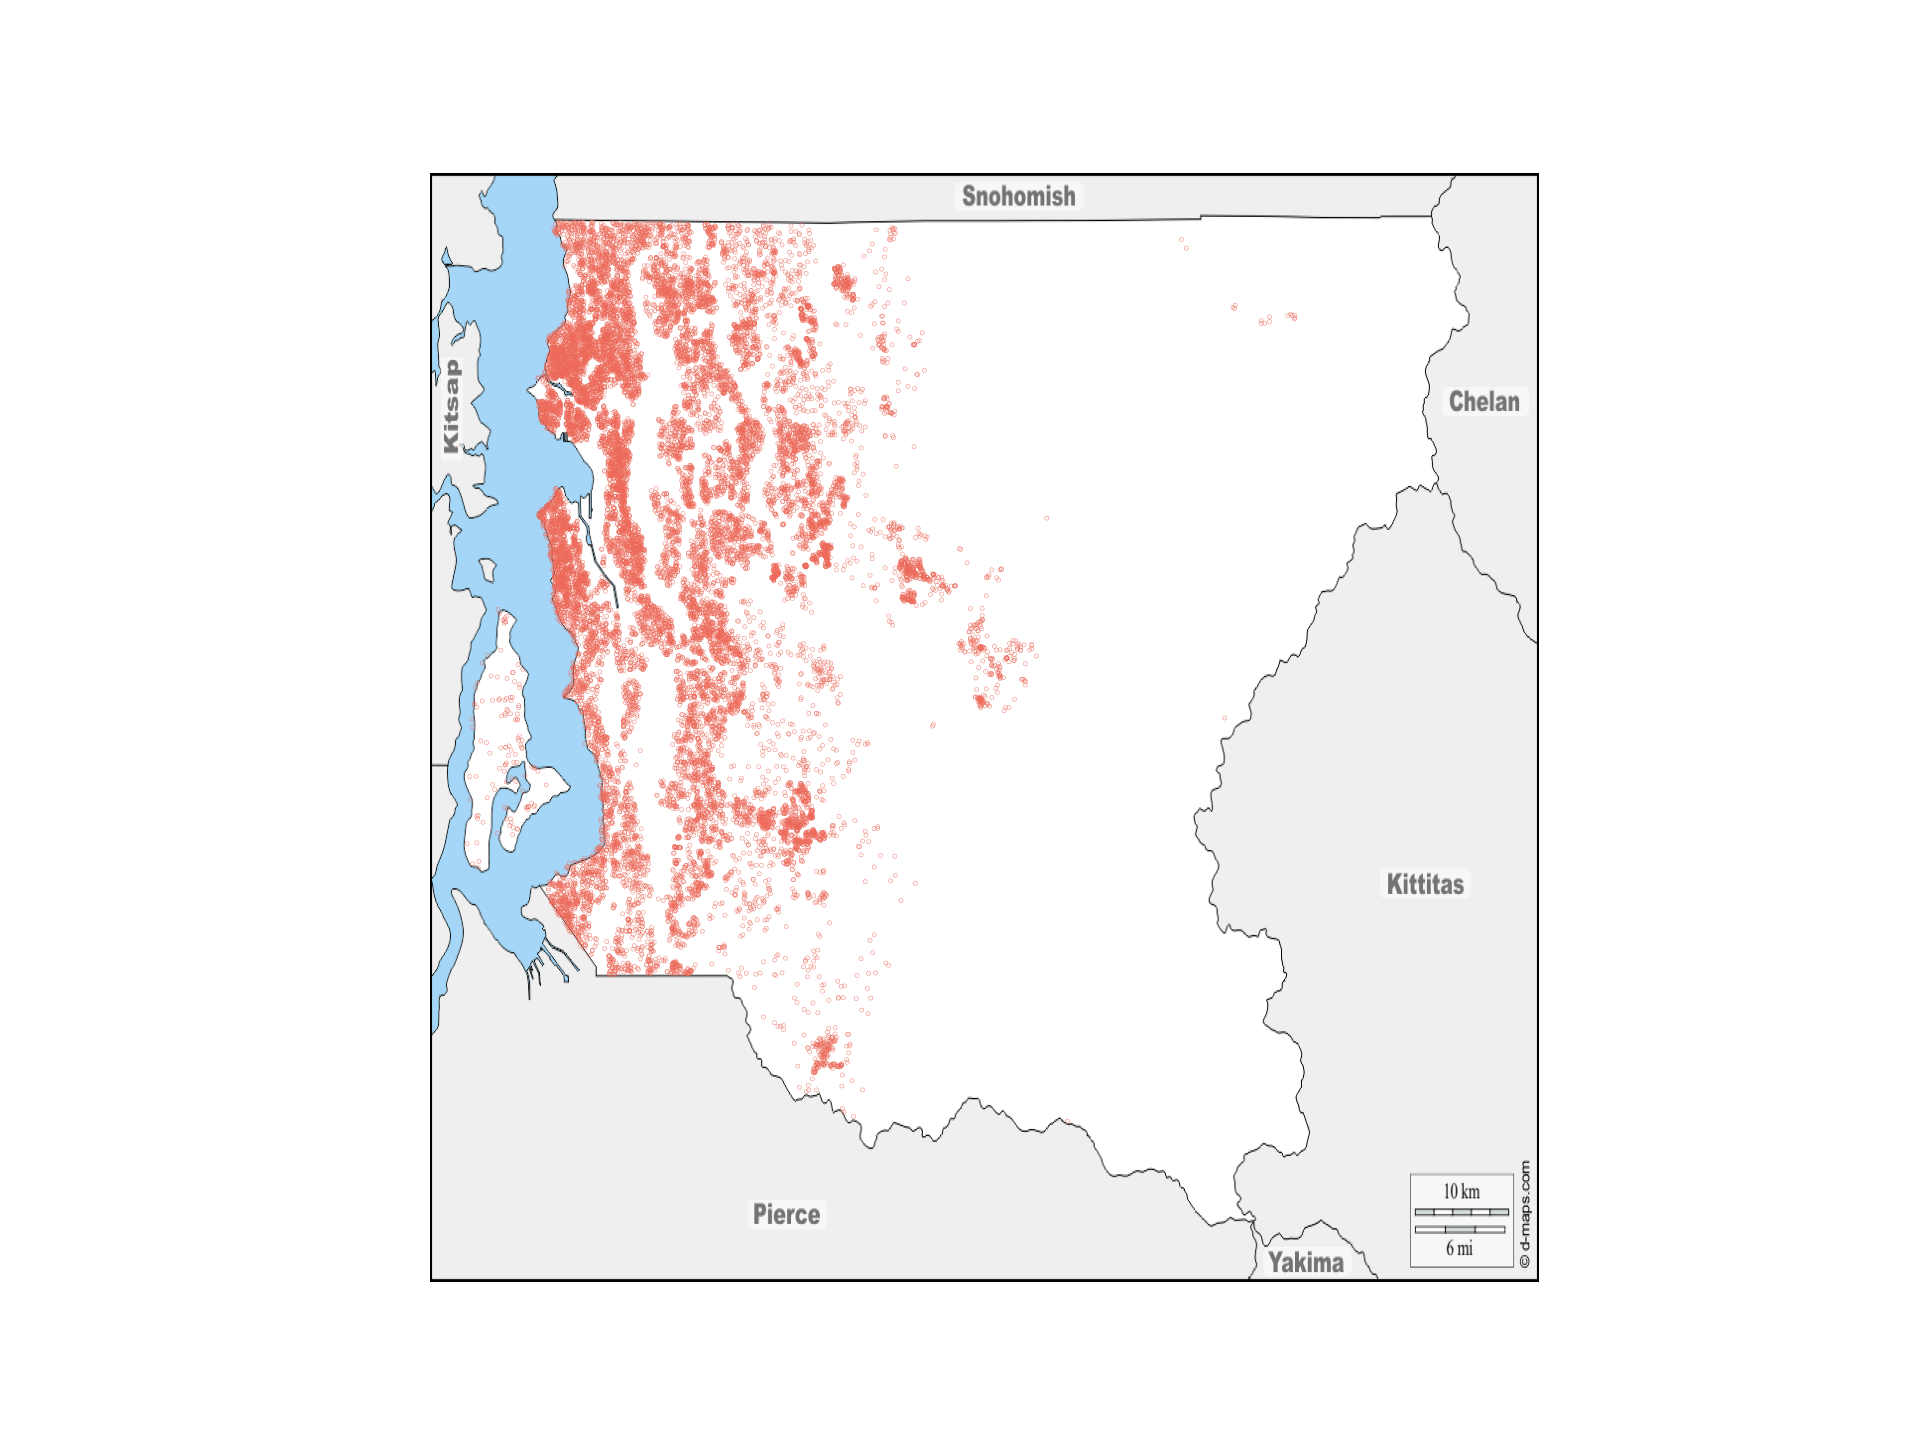
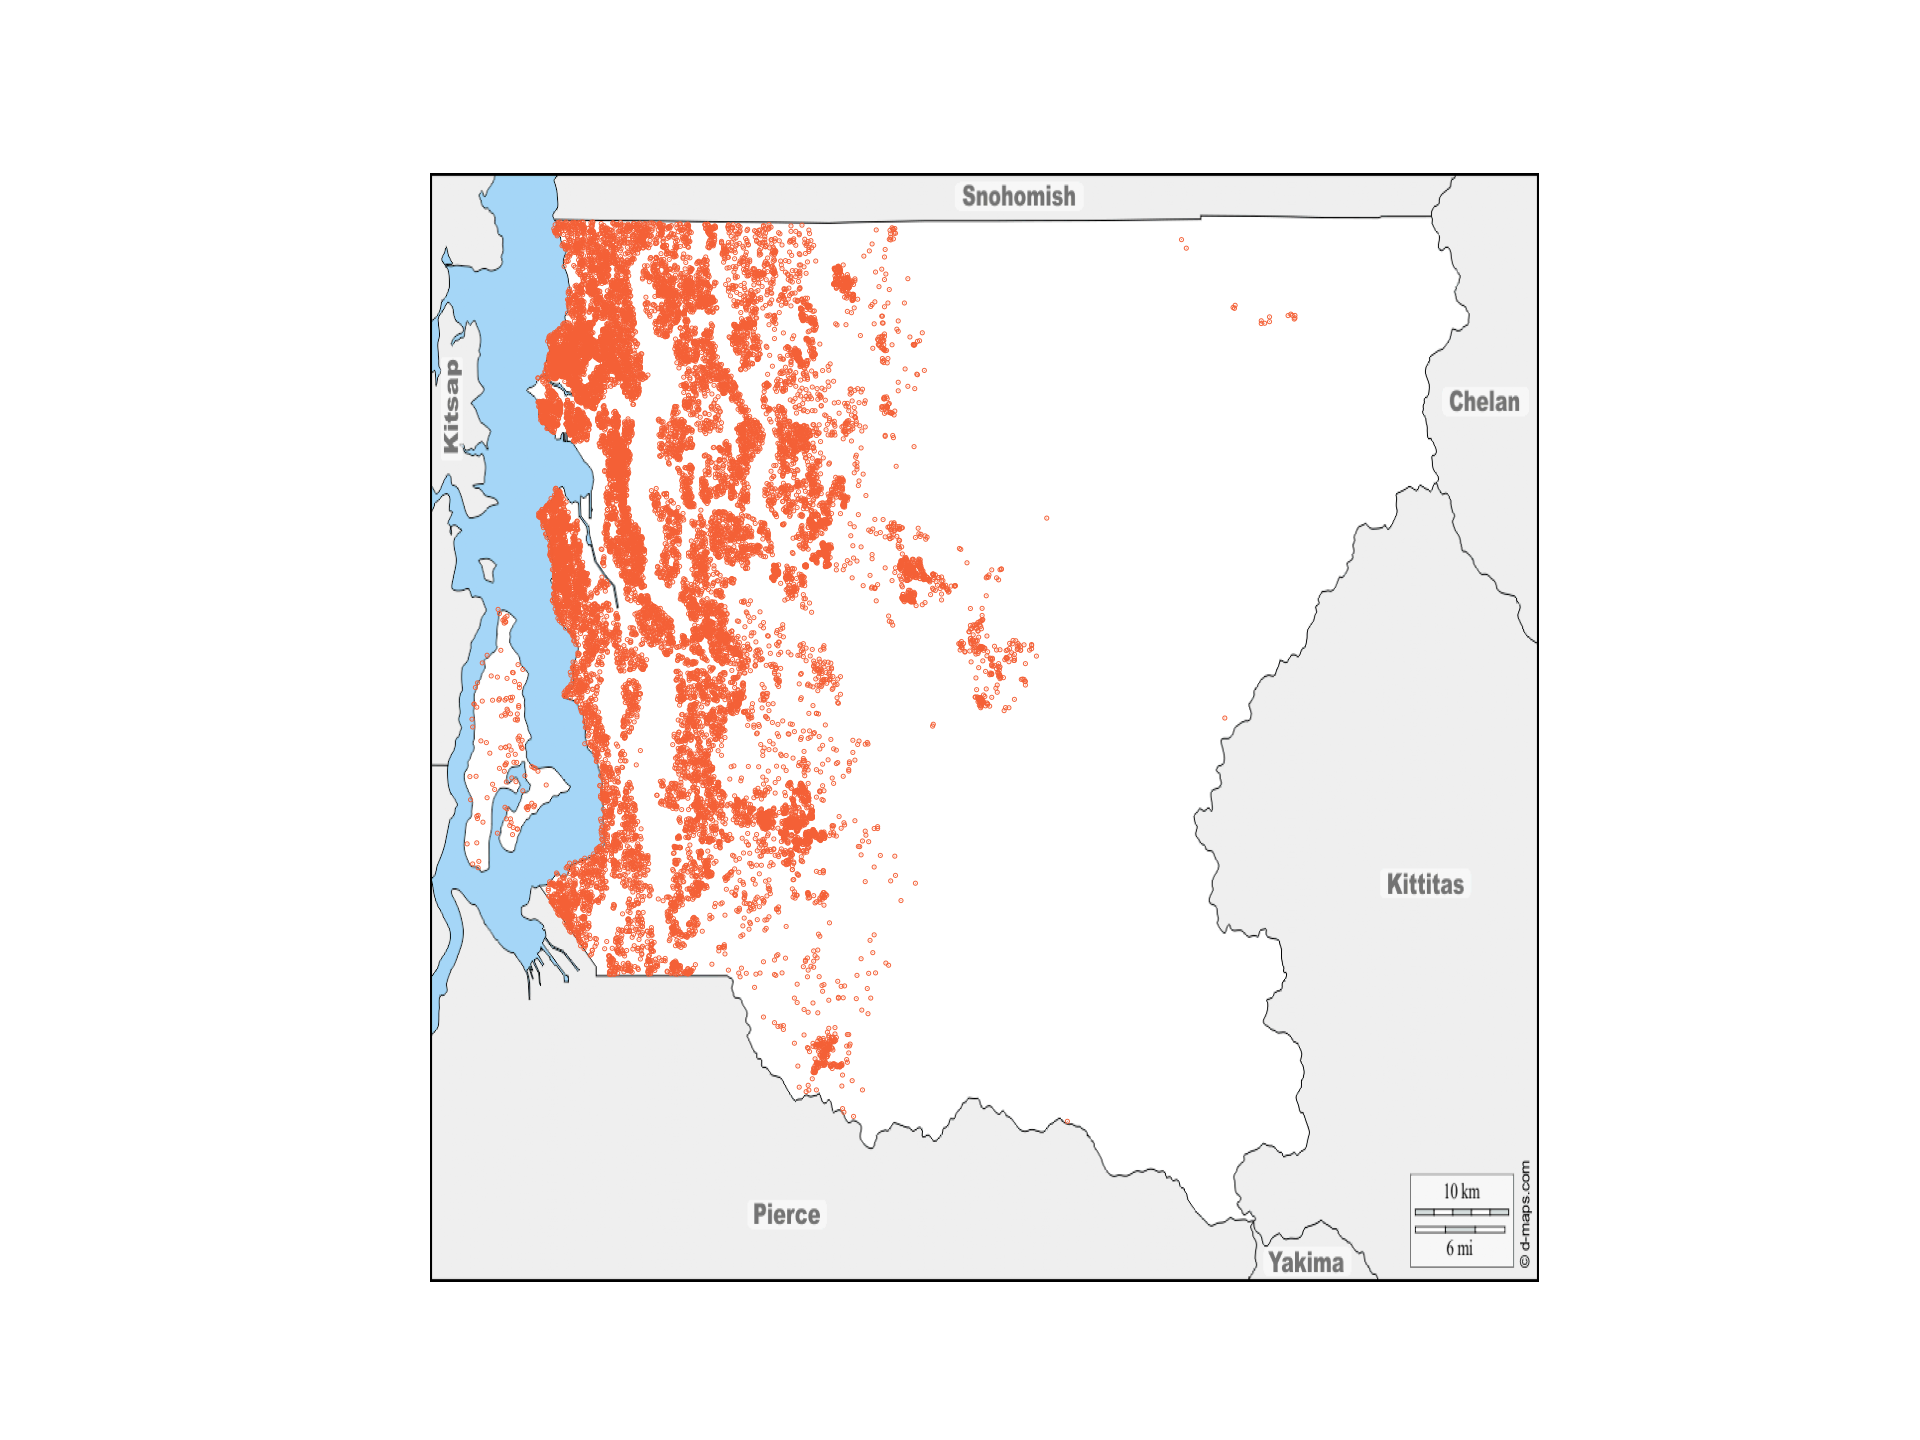
Added plots for kmeans clustering from sklearn

Changed region(s): [[0.25, 0.1562, 0.5, 0.75], [0.5, 0.4375, 0.5312, 0.5]]

diff --git a/price_predict.py b/price_predict.py
@@ -4,6 +4,7 @@ import matplotlib.pyplot as plt
 import sklearn
 import statistics
 from sklearn import preprocessing
+from sklearn.cluster import KMeans
 from sklearn.ensemble import RandomForestRegressor
 from sklearn.neighbors import KNeighborsRegressor
 from sklearn.metrics import mean_absolute_error, median_absolute_error
@@ -155,7 +156,7 @@ def plot_feature_correlation(X, Y, save_dir):
         plt.savefig('%s/%s_correlation.png' % (save_dir, column), dpi=300)
         plt.clf()
 
-def plot_latlong_clusters(X, Y, cluster, save_dir, colors=["#ED6A5A", "#F4F1BB", "#9BC1BC", "#5CA5A9", "#E6EBE0", "#93B7BE", "#F1FFFA", "#D5C7BC", "#785964", "#454545"], background_dir="./map.png", save_name="latlong_clustering", marker_size=0.05):
+def plot_latlong_clusters(X, Y, cluster, save_dir, colors=["#F46036", "#2E294E", "#1B998B", "#E71D36", "#C5D86D", "#70D6FF", "#FF70A6", "#FF9770", "#FFD670", "#E9FF70"], background_dir="./map.png", save_name="latlong_clustering", marker_size=0.05):
     count = min(len(X), min(len(Y), len(cluster)))
     if (count == 0 or len(colors) == 0):
         print("lat-long cluster plot called with invalid arugments")
@@ -264,8 +265,17 @@ if __name__ == '__main__':
     preprocess_data('./data/kc_house_data.csv', drop_features=['date', 'id'], 
     save_dir='./data', test_size=test_size, normalize_labels=False)
 
+    # Clustering based on lat long data
+    plot_latlong_clusters(X_long, X_lat, [0] * len(X_long), save_dir=plotDir, save_name="latlong_mapping")
 
-    plot_latlong_clusters(X_long, X_lat, [0] * len(X_long), save_dir=plotDir)
+    latlong = np.zeros((len(X_lat), 2))
+    for i in range(len(X_lat)):
+        latlong[i][0] = X_lat[i]
+        latlong[i][1] = X_long[i]
+
+    for nclusters in range(2, 11):
+        kmeans = KMeans(n_clusters=nclusters).fit(latlong)
+        plot_latlong_clusters(X_long, X_lat, kmeans.labels_, save_dir=plotDir, save_name=("latlong_kmeans_%s_clusters" % nclusters))
 
     # Plots histograms
     if (savePlots):
